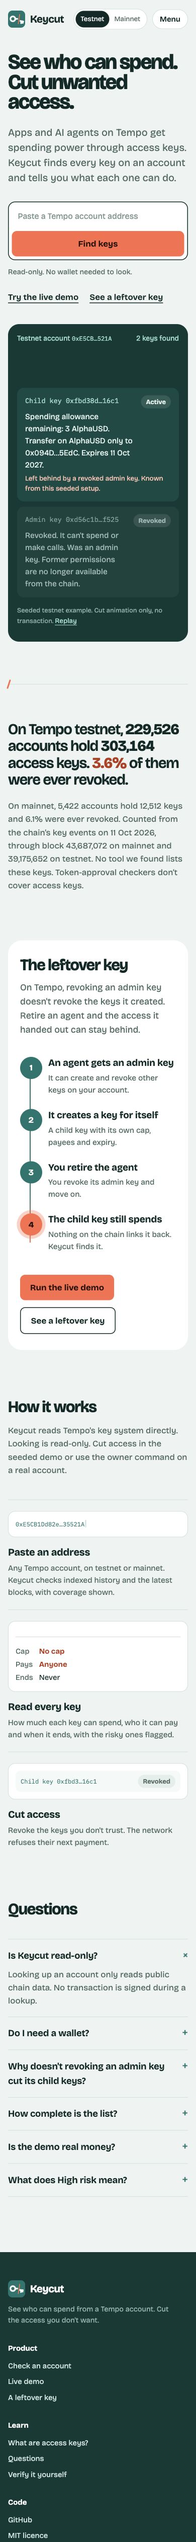
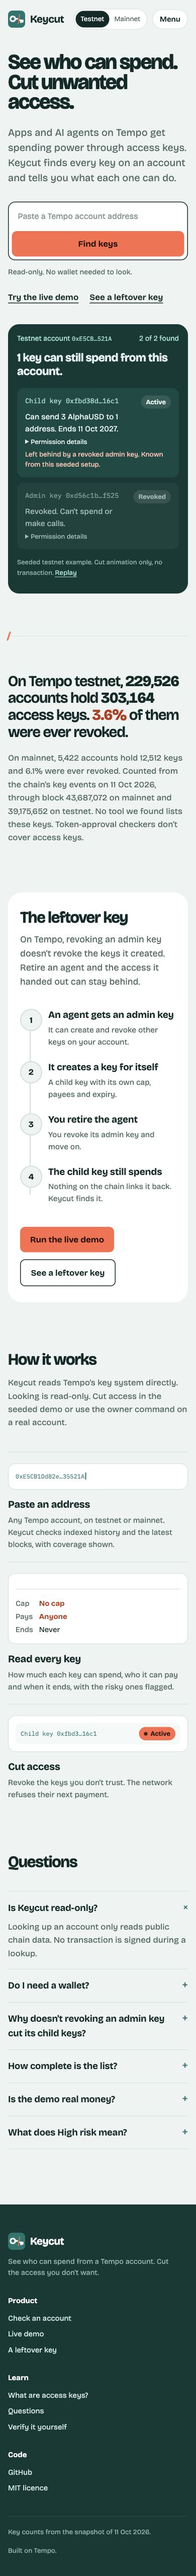
fix: keep content visible and simplify key summaries

diff --git a/components/demo-view.tsx b/components/demo-view.tsx
@@ -1,4 +1,5 @@
 'use client'
+import { keySummary } from '../lib/key-summary'
 import Link from 'next/link'
 import { formatUnits } from 'viem'
 import { useEffect, useRef, useState } from 'react'
@@ -59,5 +60,5 @@ export function DemoView(){
   const limit=childRaw?.limits.find(token=>token.symbol==='AlphaUSD')
   const latestPayment=results[6]??results[4]
   const received=latestPayment?.after
-  return <main className="wrap demo-page"><section className="demo-intro"><p className="fine">Test network 42431 · Seeded demo account · Not real funds</p><h1>Watch a key outlive its admin</h1><p>This runs on Tempo testnet with test money. Confirmed transactions have explorer links. Payment outcomes come from the vendor’s balance.</p><p className="fine">The server creates throwaway keys and funds the account from a bank. Setup completes the first four steps together, then their animations replay in order. Two comparison keys are also created.</p><Link href={`/testnet/${example.account}`}>See a leftover key without setup</Link></section><section className="demo"><div><ol className="plan"><span className="prog" aria-hidden="true" style={{transform:`scaleY(${Math.min(at,6)/6})`}} />{steps.map(([title,description],index)=><li key={title} className={`${index<at?'ok':''} ${at===index?'now':''} ${at===index&&busy?'run':''} ${index===4?'alarm':''}`}><span className="n">{index+1}</span><h3>{title}</h3><p>{results[index]?.explanation??description}</p><div className="tx">{transactions.filter(tx=>txStep(tx)===index).map(tx=><div key={tx.hash}><a href={tx.url} target="_blank" rel="noreferrer">{tx.label} · {short(tx.hash)}</a></div>)}{results[index]?.url&&<a href={results[index].url!} target="_blank" rel="noreferrer">Transaction {short(results[index].hash!)}</a>}{results[index]?.submission&&<p>{results[index].submission}</p>}{results[index]?.vendorReceived!==undefined&&<><p>Vendor balance: {formatUnits(BigInt(results[index].before!),6)} → {formatUnits(BigInt(results[index].after!),6)} AlphaUSD</p><details><summary>Base units</summary><p>6 decimals. Before: {results[index].before}. After: {results[index].after}. Change: {results[index].vendorReceived}.</p></details></>}</div></li>)}</ol><div className="ctl">{at<7&&<><button className="btn btn-cut" disabled={busy} onClick={()=>run()}>{busy?<><span className="spin" />Waiting for the test network</>:buttons[at]||'Completing setup'}</button><button className="btn btn-line" disabled={busy} onClick={()=>run(true)}>Run {at?'remaining':'every'} step</button></>}{at>0&&<button className="btn btn-quiet" disabled={busy} onClick={()=>{setReady(undefined);setTransactions([]);setResults({});setAt(0);setKeys(undefined);setCaption('Press the first step to start.')}}>Start over</button>}</div>{error&&<div className="state-panel" role="alert"><h3>Couldn’t confirm this step</h3><p>{error}</p><Link href={`/testnet/${example.account}`}>See a leftover key</Link></div>}</div><div className="demo-live"><div className="stage" aria-label="What's on the account"><div className="stage-head"><span>Testnet · seeded demo</span><span className="mono">{ready?short(ready.account):'No account yet'}</span></div><div className="board" ref={board}><div className={`node ${at<1?'ghost':'pop'}`} id="nAcct"><div className="t">Your test account</div><div className="d">Funded from the testnet bank</div></div><div className={`wire ${at<2?'ghost':''}`} id="w1" /><div className={`node ${at<2?'ghost':at>=4?'dead':'pop'}`} id="nAdmin" ref={admin}><div className="t">Admin key <span className="state">{at>=4?'Revoked':'Active'}</span></div><div className="d">Held by the agent. Can create keys.</div></div><div className={`wire ${at<3?'ghost':at>=4?'broken':''}`} id="w2"><span className="lab">The child keeps its own access</span></div><div className={`node ${at<3?'ghost':at>=6?'dead':at>=4?'hot':'pop'}`} id="nChild" ref={child}><div className="t">Child key <span className="state">{at>=6?'Revoked':'Active'}</span></div><div className="d">Pays the vendor only</div>{limit&&at<6&&<div className="meter"><div className="bar"><i style={{width:`${Math.min(100,Number(limit.remaining)/3_000_000*100)}%`}} /></div><div className="tt">{formatUnits(BigInt(limit.remaining),6)} AlphaUSD remaining</div></div>}</div><div className="node col2" id="nShop" ref={shop}><div className="t">Vendor</div><div className="d mono">{ready?short(ready.vendor):'Not created yet'}</div><div className="d">{received===undefined?'Balance not yet checked':`Balance ${formatUnits(BigInt(received),6)} AlphaUSD`}</div></div></div><p className={`caption ${at>=4&&at<6?'alarm':at>=6?'good':''}`} key={caption} aria-live="polite">{caption}</p><p className="stage-foot">Test AlphaUSD has no value. Lineage is known from this demo’s setup, not read from the chain. Other comparison keys remain in the actual account below.</p></div>{ready?<><Link className="demo-account-link" href={`/testnet/${ready.account}`} target="_blank">Open this account page</Link><AccountView key={ready.account} chain="testnet" address={ready.account} page={1} embedded refreshVersion={version} demo={{child:ready.child,childCanRevoke:at>=5,busy,onRevoke:revokeFromCard}} /></>:<div className="state-panel"><h3>Your actual account page appears here</h3><p>It reads the same index, top-up and permissions as every lookup.</p></div>}</div></section><dialog ref={dialog} className="confirm" aria-labelledby="demo-cut-title" onCancel={()=>{setConfirm(false);setAuto(false)}}><h3 id="demo-cut-title">Cut this key's access?</h3><p>This revokes the key on Tempo. It can't be undone.</p><p className="mono">{ready?.child}</p><p>{childEntry?.sentence??'Current permissions are not yet available. The setup created a child with a 3 AlphaUSD cap, one vendor and a two-hour expiry.'}</p><div className="acts"><button className="btn btn-line" onClick={()=>{setConfirm(false);setAuto(false)}}>Cancel</button><button className="btn btn-cut" onClick={confirmCut}>Cut access</button></div></dialog></main>
+  return <main className="wrap demo-page"><section className="demo-intro"><h1>Watch a key outlive its admin</h1><p>This runs on Tempo testnet with test money. Every step is a real transaction you can open on the explorer.</p></section><section className="demo"><div><ol className="plan"><span className="prog" aria-hidden="true" style={{transform:`scaleY(${Math.min(at,6)/6})`}} />{steps.map(([title,description],index)=><li key={title} className={`${index<at?'ok':''} ${at===index?'now':''} ${at===index&&busy?'run':''} ${index===4?'alarm':''}`}><span className="n">{index+1}</span><h3>{title}</h3><p>{results[index]?.explanation??description}</p><div className="tx">{transactions.filter(tx=>txStep(tx)===index).map(tx=><div key={tx.hash}><a href={tx.url} target="_blank" rel="noreferrer">{tx.label} · {short(tx.hash)}</a></div>)}{results[index]?.url&&<a href={results[index].url!} target="_blank" rel="noreferrer">Transaction {short(results[index].hash!)}</a>}{results[index]?.submission&&<p>{results[index].submission}</p>}{results[index]?.vendorReceived!==undefined&&<><p>Vendor balance: {formatUnits(BigInt(results[index].before!),6)} → {formatUnits(BigInt(results[index].after!),6)} AlphaUSD</p><details><summary>Base units</summary><p>6 decimals. Before: {results[index].before}. After: {results[index].after}. Change: {results[index].vendorReceived}.</p></details></>}</div></li>)}</ol><p className="fine demo-setup-note">The first four steps run together on a seeded testnet account, with two comparison keys. Payments use the vendor’s balance to confirm what happened. Test money has no value. <Link href={`/testnet/${example.account}`}>See a leftover key without setup</Link>.</p><div className="ctl">{at<7&&<><button className="btn btn-cut" disabled={busy} onClick={()=>run()}>{busy?<><span className="spin" />Waiting for the test network</>:buttons[at]||'Completing setup'}</button><button className="btn btn-line" disabled={busy} onClick={()=>run(true)}>Run {at?'remaining':'every'} step</button></>}{at>0&&<button className="btn btn-quiet" disabled={busy} onClick={()=>{setReady(undefined);setTransactions([]);setResults({});setAt(0);setKeys(undefined);setCaption('Press the first step to start.')}}>Start over</button>}</div>{error&&<div className="state-panel" role="alert"><h3>Couldn’t confirm this step</h3><p>{error}</p><Link href={`/testnet/${example.account}`}>See a leftover key</Link></div>}</div><div className="demo-live"><div className="stage" aria-label="What's on the account"><div className="stage-head"><span>Testnet · seeded demo</span><span className="mono">{ready?short(ready.account):'No account yet'}</span></div><div className="board" ref={board}><div className={`node ${at<1?'ghost':'pop'}`} id="nAcct"><div className="t">Your test account</div><div className="d">Funded from the testnet bank</div></div><div className={`wire ${at<2?'ghost':''}`} id="w1" /><div className={`node ${at<2?'ghost':at>=4?'dead':'pop'}`} id="nAdmin" ref={admin}><div className="t">Admin key <span className="state">{at>=4?'Revoked':'Active'}</span></div><div className="d">Held by the agent. Can create keys.</div></div><div className={`wire ${at<3?'ghost':at>=4?'broken':''}`} id="w2"><span className="lab">The child keeps its own access</span></div><div className={`node ${at<3?'ghost':at>=6?'dead':at>=4?'hot':'pop'}`} id="nChild" ref={child}><div className="t">Child key <span className="state">{at>=6?'Revoked':'Active'}</span></div><div className="d">{childRaw ? keySummary(childRaw, keys!.permissionsAtTimestamp) : "Can pay one vendor. Permissions appear after setup."}</div>{childRaw&&<details><summary>Permission details</summary><pre>{JSON.stringify(childRaw,null,2)}</pre></details>}{limit&&at<6&&<div className="meter"><div className="bar"><i style={{width:`${Math.min(100,Number(limit.remaining)/3_000_000*100)}%`}} /></div><div className="tt">{formatUnits(BigInt(limit.remaining),6)} AlphaUSD remaining</div></div>}</div><div className="node col2" id="nShop" ref={shop}><div className="t">Vendor</div><div className="d mono">{ready?short(ready.vendor):'Not created yet'}</div><div className="d">{received===undefined?'Balance not yet checked':`Balance ${formatUnits(BigInt(received),6)} AlphaUSD`}</div></div></div><p className={`caption ${at>=4&&at<6?'alarm':at>=6?'good':''}`} key={caption} aria-live="polite">{caption}</p><p className="stage-foot">Test AlphaUSD has no value. Lineage is known from this demo’s setup, not read from the chain. Other comparison keys remain in the actual account below.</p></div>{ready?<><Link className="demo-account-link" href={`/testnet/${ready.account}`} target="_blank">Open this account page</Link><AccountView key={ready.account} chain="testnet" address={ready.account} page={1} embedded refreshVersion={version} demo={{child:ready.child,childCanRevoke:at>=5,busy,onRevoke:revokeFromCard}} /></>:<div className="state-panel"><h3>Your actual account page appears here</h3><p>It reads the same index, top-up and permissions as every lookup.</p></div>}</div></section><dialog ref={dialog} className="confirm" aria-labelledby="demo-cut-title" onCancel={()=>{setConfirm(false);setAuto(false)}}><h3 id="demo-cut-title">Cut this key's access?</h3><p>This revokes the key on Tempo. It can't be undone.</p><p className="mono">{ready?.child}</p><p>{childRaw ? keySummary(childRaw, keys!.permissionsAtTimestamp) : 'Current permissions are not yet available. The setup created a child with a 3 AlphaUSD cap, one vendor and a two-hour expiry.'}</p><div className="acts"><button className="btn btn-line" onClick={()=>{setConfirm(false);setAuto(false)}}>Cancel</button><button className="btn btn-cut" onClick={confirmCut}>Cut access</button></div></dialog></main>
 }

diff --git a/components/design-page.tsx b/components/design-page.tsx
@@ -2,7 +2,8 @@
 import { useEffect, useRef } from 'react'
 import { useRouter } from 'next/navigation'
 import { isAddress } from 'viem'
-import { cut, swapText, countUp, onVisible, type, wait, reducedMotion, toast } from '../lib/motion'
+import { cut, swapText, countUp, onVisible, type, wait, reducedMotion, toast, reveal } from '../lib/motion'
+import { keySummary } from '../lib/key-summary'
 import { fetchKeys } from '../lib/keys-api'
 import example from '../lib/leftover-example.json'
 import { useNetwork } from './site-layout'
@@ -22,18 +23,19 @@ export function DesignPage({ html, page }: { html: string; page: 'home' | 'learn
       }
       form.addEventListener('submit', handler); cleanups.push(() => form.removeEventListener('submit', handler))
     }
+    cleanups.push(onVisible(q('.hero'), el => reveal(el, 'h1 span,.lede,.search,.fine,.alts')))
     container.querySelectorAll<HTMLElement>('[data-to]').forEach(el => cleanups.push(onVisible(el, node => cleanups.push(countUp(node)))))
     cleanups.push(onVisible(q('#steps'), el => el.classList.add('on'), .5))
     cleanups.push(onVisible(q('#frag1'), () => { const typed = q('#typed'); if (typed) void type(typed, `${example.account.slice(0,12)}…${example.account.slice(-6)}`,55) }))
-    cleanups.push(onVisible(q('#frag2'), el => el.classList.add('on')))
+    cleanups.push(onVisible(q('#frag2'), el => reveal(el, '.kv span')))
     cleanups.push(onVisible(q('#frag3'), async () => { const mini=q('#mini'); if (mini) { await wait(900); if (controller.signal.aborted) return; await cut(mini); const badge=q('#minibadge'); if (badge) { badge.className='badge';badge.textContent='Revoked' } } }))
-    cleanups.push(onVisible(q('#anat'), el => el.classList.add('on')))
+    cleanups.push(onVisible(q('#anat'), el => reveal(el, '.r')))
     if (page === 'learn') {
       const links = Array.from(container.querySelectorAll<HTMLAnchorElement>('#toc a')), mark=q('#tocmark')
       const setOn=(link: HTMLAnchorElement) => { links.forEach(l=>l.classList.toggle('on',l===link)); if(mark){mark.style.height=`${link.parentElement!.offsetHeight}px`;mark.style.transform=`translateY(${link.parentElement!.offsetTop}px)`} }
       if(links.length) setOn(links[0]!)
-      const observer=new IntersectionObserver(entries=>entries.forEach(entry=>{if(entry.isIntersecting){const link=links.find(l=>l.hash===`#${entry.target.id}`);if(link)setOn(link)}}),{rootMargin:'-30% 0px -60% 0px'})
-      container.querySelectorAll('article section').forEach(s=>observer.observe(s));cleanups.push(()=>observer.disconnect())
+      const observer=typeof IntersectionObserver === 'undefined' ? undefined : new IntersectionObserver(entries=>entries.forEach(entry=>{if(entry.isIntersecting){const link=links.find(l=>l.hash===`#${entry.target.id}`);if(link)setOn(link)}}),{rootMargin:'-30% 0px -60% 0px'})
+      container.querySelectorAll('article section').forEach(s=>observer?.observe(s));cleanups.push(()=>observer?.disconnect())
       const handler=async(event: MouseEvent)=>{
         const button=(event.target as Element).closest<HTMLButtonElement>('.flip button')
         if(button){container.querySelectorAll('.flip button').forEach(b=>b.setAttribute('aria-pressed',String(b===button))); for(const el of container.querySelectorAll<HTMLElement>('#anat .ex')){el.classList.toggle('bad',button.dataset.k==='b');void swapText(el,el.dataset[button.dataset.k!]!)} }
@@ -46,22 +48,24 @@ export function DesignPage({ html, page }: { html: string; page: 'home' | 'learn
       let generation=0
       async function play() {
         const run=++generation, ledger=q('#ledger')!,rows=q('#rows')!,found=q('#found')!,verdict=q('#verdict')!
-        ledger.classList.add('scanning');rows.replaceChildren();verdict.textContent='Reading the seeded example';found.textContent='Reading keys…'
+        ledger.classList.add('scanning')
         try {
           const data=await fetchKeys('testnet',example.account,1,controller.signal)
           if(controller.signal.aborted||run!==generation)return
+          rows.replaceChildren()
           for(const entry of data.keys){
             const row=document.createElement('div');row.className=`row found ${entry.status==='active'?'':'dim'}`
             const id=document.createElement('span');id.className='id';id.textContent=`${entry.key.toLowerCase()===example.child.toLowerCase()?'Child key':entry.key.toLowerCase()===example.admin.toLowerCase()?'Admin key':'Key'} ${entry.key.slice(0,8)}…${entry.key.slice(-4)}`
             const state=document.createElement('span');state.className='state';state.textContent=entry.status.charAt(0).toUpperCase()+entry.status.slice(1)
-            const what=document.createElement('span');what.className='what';what.textContent=entry.sentence.replace(/^Active\. /,'').replace(' (known stablecoins only)','').replace(/0x[0-9a-fA-F]{40}/g,value=>`${value.slice(0,6)}…${value.slice(-4)}`).replace(/\d{4}-\d{2}-\d{2}T[\d:.]+Z/g,value=>new Date(value).toLocaleDateString('en-GB',{day:'numeric',month:'short',year:'numeric'}));what.title=entry.sentence
+            const what=document.createElement('span');what.className='what';what.textContent=entry.raw?keySummary(entry.raw,data.permissionsAtTimestamp):entry.sentence
             row.append(id,state,what)
+            if(entry.raw){const details=document.createElement('details');details.className='row-details';const summary=document.createElement('summary');summary.textContent='Permission details';const pre=document.createElement('pre');pre.textContent=JSON.stringify(entry.raw,null,2);details.append(summary,pre);row.append(details)}
             if(entry.key.toLowerCase()===example.child.toLowerCase()){row.classList.add('target');const note=document.createElement('span');note.className='note';note.textContent='Left behind by a revoked admin key. Known from this seeded setup.';row.append(note)}
-            rows.append(row);found.textContent=`${rows.children.length} of ${data.totalKeys} found`;await wait(420);if(controller.signal.aborted||run!==generation)return
+            rows.append(row);cleanups.push(onVisible(row, el=>reveal(el,'.id,.state,.what')));found.textContent=`${rows.children.length} of ${data.totalKeys} found`;await wait(420);if(controller.signal.aborted||run!==generation)return
           }
           ledger.classList.remove('scanning');found.textContent=`${data.totalKeys} keys found`;await swapText(verdict,`${data.keys.filter(k=>k.status==='active').length} key can still spend from this account.`)
           await wait(1500);if(controller.signal.aborted||run!==generation)return;const target=q('.row.target');if(target){await cut(target);await swapText(verdict,'Cut unwanted access.');const note=target.querySelector<HTMLElement>('.note');if(note)note.textContent='Cut animation only. This permanent example stays active.'}
-        } catch(error){if(!controller.signal.aborted){ledger.classList.remove('scanning');found.textContent='Lookup unavailable';verdict.textContent='Open the seeded example';rows.textContent=(error as Error).message}}
+        } catch(error){if(!controller.signal.aborted){ledger.classList.remove('scanning');found.textContent='Lookup unavailable';verdict.textContent='Open the seeded example';if(!rows.children.length)rows.textContent=(error as Error).message}}
       }
       const replay=q('#replay')!;replay.addEventListener('click',play);cleanups.push(()=>replay.removeEventListener('click',play));void play()
     }

diff --git a/app/globals.css b/app/globals.css
@@ -107,7 +107,6 @@ a { color: inherit; }
 .state.live { background: var(--coral); color: #2A0E06; }
 .row-tools { grid-column: 1 / -1; display: flex; align-items: center; gap: 12px; margin-top: 8px; }
 .row-tools small, .row-tools .done { color: var(--mint); font-size: 13.5px; }
-.row.found { animation: found .5s var(--ease-out) both; }
 @keyframes found { from { opacity: 0; transform: translateY(12px) scale(.98); } }
 .replay { font: inherit; font-size: 13.5px; color: var(--mint); background: none; border: 0; padding: 0; text-decoration: underline; text-underline-offset: 4px; cursor: pointer; }
 .ledger-foot { margin-top: 16px; font-size: 13px; color: #8FB3AC; }
@@ -131,7 +130,7 @@ footer { background: var(--deep); color: #CFE8E3; padding: 56px 0 40px; }
 .legal { margin-top: 44px; padding-top: 20px; border-top: 1px solid rgba(255,255,255,.1); font-size: 13.5px; color: #8FB3AC; display: flex; justify-content: space-between; gap: 16px; flex-wrap: wrap; }
 
 /* ---------- Toast ---------- */
-.toast { position: fixed; left: 50%; bottom: 24px; z-index: 60; transform: translate(-50%, 140%); background: var(--ink); color: #fff; padding: 12px 18px; border-radius: 12px; font-size: 15px; display: flex; gap: 10px; align-items: center; max-width: calc(100vw - 32px); transition: transform .4s var(--ease-out); }
+.toast { position: fixed; left: 50%; bottom: 24px; z-index: 60; transform: translate(-50%, 140%); background: var(--deep); color: #fff; padding: 12px 18px; border-radius: 12px; font-size: 15px; display: flex; gap: 10px; align-items: center; max-width: calc(100vw - 32px); transition: transform .4s var(--ease-out); }
 .toast.show { transform: translate(-50%, 0); }
 .toast::before { content: ""; width: 3px; height: 18px; background: var(--coral); border-radius: 2px; transform: rotate(16deg); flex: none; }
 
@@ -169,9 +168,6 @@ dialog.confirm .acts { display: flex; gap: 10px; justify-content: flex-end; marg
 
 /* Home page only */
 .hero { display: grid; grid-template-columns: 1.05fr .95fr; gap: 56px; align-items: center; padding-top: 56px; padding-bottom: 84px; }
-.hero h1 span { animation: rise .8s var(--ease-out) both; }
-.hero h1 span + span { animation-delay: .12s; }
-.hero .lede, .hero .search, .hero .fine, .hero .alts { animation: rise .8s .24s var(--ease-out) both; }
 @keyframes rise { from { opacity: 0; transform: translateY(18px); } }
 .lede { font-size: 20px; line-height: 1.5; color: var(--muted); max-width: 33ch; margin: 0 0 32px; }
 .alts { display: flex; gap: 22px; margin-top: 26px; font-weight: 600; flex-wrap: wrap; }
@@ -212,7 +208,7 @@ dialog.confirm .acts { display: flex; gap: 10px; justify-content: flex-end; marg
 .frag .caret { display: inline-block; width: 2px; height: 1em; background: var(--teal); vertical-align: -2px; margin-left: 1px; animation: beat 1s steps(1) infinite; }
 .frag .kv { display: grid; grid-template-columns: auto 1fr; gap: 3px 12px; }
 .frag .kv span:nth-child(odd) { color: var(--muted); }
-.frag .kv span { opacity: 0; transform: translateX(-6px); transition: opacity .35s, transform .35s var(--ease-out); }
+.frag .kv span { opacity: 1; transform: none; transition: opacity .35s, transform .35s var(--ease-out); }
 .frag.on .kv span { opacity: 1; transform: none; }
 .frag.on .kv span:nth-child(n+3) { transition-delay: .15s; } .frag.on .kv span:nth-child(n+5) { transition-delay: .3s; }
 .frag .kv .risk { color: var(--coral-ink); font-weight: 650; }
@@ -272,7 +268,6 @@ dialog.confirm .acts { display: flex; gap: 10px; justify-content: flex-end; marg
 
 .cards { display: grid; gap: 14px; }
 .card { background: var(--sheet); border: 1px solid var(--line); border-radius: 18px; padding: 20px 22px; position: relative; transition: border-color .3s, background .3s, opacity .3s; }
-.card.found { animation: found .5s var(--ease-out) both; }
 .card.hide { display: none; }
 .card.flag { border-color: #FFB4A3; box-shadow: inset 4px 0 0 var(--coral); }
 .card.off { background: #F7FAF9; }
@@ -416,7 +411,7 @@ dialog.confirm .acts { display: flex; gap: 10px; justify-content: flex-end; marg
 .anat .r span { color: var(--muted); font-size: 15.5px; }
 .anat .r .ex { font-family: var(--mono); font-size: 13px; color: var(--teal); background: #EAF4F1; padding: 3px 8px; border-radius: 6px; white-space: nowrap; }
 .anat .r .ex.bad { color: var(--coral-ink); background: #FFF0EC; }
-.anat .r { opacity: 0; transform: translateY(8px); transition: opacity .45s, transform .45s var(--ease-out); }
+.anat .r { opacity: 1; transform: none; transition: opacity .45s, transform .45s var(--ease-out); }
 .anat.on .r { opacity: 1; transform: none; }
 .anat.on .r:nth-child(2) { transition-delay: .1s; } .anat.on .r:nth-child(3) { transition-delay: .2s; } .anat.on .r:nth-child(4) { transition-delay: .3s; }
 .flip { display: flex; gap: 6px; margin: 14px 0 0; }
@@ -544,3 +539,7 @@ input,select { min-width: 0; border: 1px solid var(--line); background: var(--sh
 @media(prefers-reduced-motion:reduce) { .card details[open]>:not(summary) { animation: none !important; } }
 .acct:not(.embedded-account) { padding-left: 28px; padding-right: 28px; }
 @media(max-width:520px) { .acct:not(.embedded-account) { padding-left: 16px; padding-right: 16px; } }
+
+.row-details { grid-column: 1 / -1; font-size: 13px; }
+.row-details pre,.stage pre { color: var(--ink); }
+.key-sentence { font-size: 19px; line-height: 1.4; }

diff --git a/public/screenshots/index.html b/public/screenshots/index.html
@@ -1,2 +1,2 @@
-<!doctype html><html lang="en"><meta charset="utf-8"><meta name="viewport" content="width=device-width,initial-scale=1"><title>Keycut design screenshots</title><style>body{margin:0;background:#eef4f2;color:#0d2b27;font:17px system-ui;padding:24px}main{max-width:1200px;margin:auto}h1{font-size:36px}section{margin:40px 0}.pair{display:grid;grid-template-columns:minmax(0,3fr) minmax(0,1fr);gap:20px;align-items:start}img{display:block;width:100%;border-radius:12px;border:1px solid #cfe0dc}a{color:#0f766e}@media(max-width:600px){.pair{grid-template-columns:1fr}}:focus-visible{outline:3px solid #ff6b4a}</style><main><h1>Keycut design screenshots</h1><p>Production build, desktop 1280px and phone 390px. These captures use live read-only data in the local preview. The demo captures show its initial state, before setup. No wallet or mainnet write was made.</p>
-<section><h2>Home</h2><div class="pair"><a href="home-desktop.jpg"><img src="home-desktop.jpg" alt="Home, desktop" loading="lazy"></a><a href="home-mobile.jpg"><img src="home-mobile.jpg" alt="Home, phone" loading="lazy"></a></div></section><section><h2>Account</h2><div class="pair"><a href="account-desktop.jpg"><img src="account-desktop.jpg" alt="Account, desktop" loading="lazy"></a><a href="account-mobile.jpg"><img src="account-mobile.jpg" alt="Account, phone" loading="lazy"></a></div></section><section><h2>Demo</h2><div class="pair"><a href="demo-desktop.jpg"><img src="demo-desktop.jpg" alt="Demo, desktop" loading="lazy"></a><a href="demo-mobile.jpg"><img src="demo-mobile.jpg" alt="Demo, phone" loading="lazy"></a></div></section><section><h2>Learn</h2><div class="pair"><a href="learn-desktop.jpg"><img src="learn-desktop.jpg" alt="Learn, desktop" loading="lazy"></a><a href="learn-mobile.jpg"><img src="learn-mobile.jpg" alt="Learn, phone" loading="lazy"></a></div></section><section><h2>Page not found</h2><div class="pair"><a href="404-desktop.jpg"><img src="404-desktop.jpg" alt="Page not found, desktop" loading="lazy"></a><a href="404-mobile.jpg"><img src="404-mobile.jpg" alt="Page not found, phone" loading="lazy"></a></div></section></main></html>
+<!doctype html><html lang="en"><meta charset="utf-8"><meta name="viewport" content="width=device-width,initial-scale=1"><title>Keycut design screenshots</title><style>body{margin:0;background:#eef4f2;color:#0d2b27;font:17px system-ui;padding:24px}main{max-width:1200px;margin:auto}h1{font-size:36px}section{margin:40px 0}.pair{display:grid;grid-template-columns:minmax(0,3fr) minmax(0,1fr);gap:20px;align-items:start}img{display:block;width:100%;border-radius:12px;border:1px solid #cfe0dc}a{color:#0f766e}@media(max-width:600px){.pair{grid-template-columns:1fr}}:focus-visible{outline:3px solid #ff6b4a}</style><main><h1>Keycut design screenshots</h1><p>Production build, desktop 1280px and phone 390px. These captures show the deployed HTTPS site. The demo captures show its initial state, before setup. The separate completed-demo capture records a real bank-funded testnet run. No user wallet or mainnet write was made.</p>
+<section><h2>Home</h2><div class="pair"><a href="home-desktop.jpg"><img src="home-desktop.jpg" alt="Home, desktop"></a><a href="home-mobile.jpg"><img src="home-mobile.jpg" alt="Home, phone"></a></div></section><section><h2>Account</h2><div class="pair"><a href="account-desktop.jpg"><img src="account-desktop.jpg" alt="Account, desktop"></a><a href="account-mobile.jpg"><img src="account-mobile.jpg" alt="Account, phone"></a></div></section><section><h2>Demo</h2><div class="pair"><a href="demo-desktop.jpg"><img src="demo-desktop.jpg" alt="Demo, desktop"></a><a href="demo-mobile.jpg"><img src="demo-mobile.jpg" alt="Demo, phone"></a></div></section><section><h2>Learn</h2><div class="pair"><a href="learn-desktop.jpg"><img src="learn-desktop.jpg" alt="Learn, desktop"></a><a href="learn-mobile.jpg"><img src="learn-mobile.jpg" alt="Learn, phone"></a></div></section><section><h2>Page not found</h2><div class="pair"><a href="404-desktop.jpg"><img src="404-desktop.jpg" alt="Page not found, desktop"></a><a href="404-mobile.jpg"><img src="404-mobile.jpg" alt="Page not found, phone"></a></div></section><section><h2>Completed live demo</h2><a href="demo-live-complete.jpg"><img src="demo-live-complete.jpg" alt="Real live demo after the child revoke and refused payment"></a></section></main></html>

diff --git a/components/account-view.tsx b/components/account-view.tsx
@@ -1,4 +1,5 @@
 'use client'
+import { keySummary } from '../lib/key-summary'
 import Link from 'next/link'
 import { useEffect, useRef, useState } from 'react'
 import { fetchKeys, type KeysResult } from '../lib/keys-api'
@@ -74,6 +75,6 @@ export function AccountView({ chain, address, page, initialData, demo, refreshVe
         {data.totalPages > 0 && <nav className="pagination" aria-label="Key pages"><div className="page-links">{page > 1 && <><Link href={href(1)}>First</Link><Link href={href(page - 1)}>Previous</Link></>}{page < data.totalPages && <><Link href={href(page + 1)}>Next</Link><Link href={href(data.totalPages)}>Last</Link></>}</div><form action={`/${chain}/${address}`}><label htmlFor={embedded ? 'embedded-page' : 'page'}>Page</label><input id={embedded ? 'embedded-page' : 'page'} name="page" type="number" min="1" max={data.totalPages} defaultValue={page} key={page} required /><span>of {data.totalPages.toLocaleString()}</span><button className="icon-btn">Go</button></form></nav>}
       </>}
     </section><aside className="rail"><div className="panel"><h3>Keys on this page</h3><div className="stack" aria-hidden="true"><i className="a" style={{flexGrow: counts.active}} /><i className="r" style={{flexGrow:counts.revoked}} /><i className="e" style={{flexGrow:counts.expired}} /></div><ul className="legend"><li style={{'--c':'var(--coral)'} as React.CSSProperties}>Can spend<b>{spenders}</b></li><li style={{'--c':'var(--teal)'} as React.CSSProperties}>Active<b>{counts.active}</b></li><li style={{'--c':'var(--mint)'} as React.CSSProperties}>Revoked<b>{counts.revoked}</b></li><li style={{'--c':'#4F7E77'} as React.CSSProperties}>Expired<b>{counts.expired}</b></li></ul><p>Cutting access needs the account owner. Looking doesn't.</p></div><div className="panel light"><h3>Why is a key still here?</h3><p>Revoking an admin key doesn't revoke the keys it created. <Link href="/learn#leftover">Read how the testnet case works</Link>.</p></div></aside></div>
-    <dialog className="confirm" ref={dialog} aria-labelledby="cut-title" onCancel={() => setPendingKey(undefined)}><h3 id="cut-title">Cut this key's access?</h3><p>This revokes the key on Tempo. It can't be undone.</p><p className="mono">{pendingKey}</p><p>{selected?.sentence}</p><div className="acts"><button className="btn btn-line" onClick={() => setPendingKey(undefined)}>Cancel</button><button className="btn btn-cut" onClick={() => pendingKey && revoke(pendingKey)}>Cut access</button></div></dialog>
+    <dialog className="confirm" ref={dialog} aria-labelledby="cut-title" onCancel={() => setPendingKey(undefined)}><h3 id="cut-title">Cut this key's access?</h3><p>This revokes the key on Tempo. It can't be undone.</p><p className="mono">{pendingKey}</p><p>{selected?.raw ? keySummary(selected.raw, data?.permissionsAtTimestamp ?? Math.floor(Date.now()/1000)) : selected?.sentence}</p><div className="acts"><button className="btn btn-line" onClick={() => setPendingKey(undefined)}>Cancel</button><button className="btn btn-cut" onClick={() => pendingKey && revoke(pendingKey)}>Cut access</button></div></dialog>
   </Container>
 }

diff --git a/app/page.tsx b/app/page.tsx
@@ -1,5 +1,24 @@
 import template from '../lib/design/index.json'
 import { snapshots, snapshotMarkup } from '../lib/snapshots'
 import { DesignPage } from '../components/design-page'
+import { cachedLookup } from '../lib/lookup'
+import { keySummary } from '../lib/key-summary'
+import example from '../lib/leftover-example.json'
+import type { Address } from 'viem'
 export const dynamic = 'force-dynamic'
-export default async function Home() { return <DesignPage page="home" html={snapshotMarkup(template, await snapshots())} /> }
+const escape = (text: string) => text.replace(/[&<>"']/g, char => ({'&':'&amp;','<':'&lt;','>':'&gt;','"':'&quot;',"'":'&#39;'}[char]!))
+export default async function Home() {
+  let html = snapshotMarkup(template, await snapshots()).replace('id="typed"></span>', `id="typed">${example.account.slice(0,12)}…${example.account.slice(-6)}</span>`)
+  try {
+    const data = await cachedLookup('testnet', example.account as Address, 1)
+    const rows = data.keys.map(entry => {
+      const child = entry.key.toLowerCase() === example.child.toLowerCase()
+      const kind = child ? 'Child key' : entry.key.toLowerCase() === example.admin.toLowerCase() ? 'Admin key' : 'Key'
+      return `<div class="row ${child?'target':''} ${entry.status==='active'?'':'dim'}"><span class="id">${kind} ${entry.key.slice(0,8)}…${entry.key.slice(-4)}</span><span class="state">${entry.status.charAt(0).toUpperCase()+entry.status.slice(1)}</span><span class="what">${escape(entry.raw?keySummary(entry.raw,data.permissionsAtTimestamp):entry.sentence)}</span>${entry.raw?`<details class="row-details"><summary>Permission details</summary><pre>${escape(JSON.stringify(entry.raw,null,2))}</pre></details>`:''}${child?'<span class="note">Left behind by a revoked admin key. Known from this seeded setup.</span>':''}</div>`
+    }).join('')
+    html = html.replace('<div class="rows" id="rows"></div>', `<div class="rows" id="rows">${rows}</div>`).replace('id="found">Reading keys…', `id="found">${data.totalKeys} keys found`).replace('id="verdict">&nbsp;', `id="verdict">${data.keys.filter(key=>key.status==='active').length} key can still spend from this account.`)
+  } catch {
+    html = html.replace('id="verdict">&nbsp;', 'id="verdict">Open the seeded example').replace('<div class="rows" id="rows"></div>', `<div class="rows" id="rows"><a href="/testnet/${example.account}">Read this account’s current permissions</a></div>`)
+  }
+  return <DesignPage page="home" html={html} />
+}

diff --git a/components/key-card.tsx b/components/key-card.tsx
@@ -1,6 +1,7 @@
 'use client'
 
 import { formatUnits } from 'viem'
+import { keySummary } from '../lib/key-summary'
 import { riskLevel } from '../lib/key-presentation'
 import { KeyScope } from './key-scope'
 import { DateValue } from './date-value'
@@ -23,10 +24,10 @@ export function KeyCard({ entry, nowSeconds, chain, permanent, onRevoke, disable
   const positiveLimits = raw?.limits.filter(token => BigInt(token.remaining) > 0n) ?? []
   return <article id={`key-${entry.key}`} className={`card found ${risk === 'high' || leftover ? 'flag' : ''}`} aria-label={`Key ${entry.key}`}>
     <div className="head"><span className="kind">{leftover ? 'Child key' : raw?.isAdmin ? 'Admin key' : 'Access key'}</span><Address value={entry.key} /><div className="card-badges"><span className={`badge ${status}`}>{status.charAt(0).toUpperCase() + status.slice(1)}</span>{risk && <span className={`badge risk-${risk}`}>{risk === 'high' ? 'High risk' : 'Review'}</span>}</div></div>
-    {leftoverNote}<p className="sr-only">{entry.sentence}</p>
+    {leftoverNote}
     {!raw ? <p role="alert">We couldn't read this key's permissions. Try the lookup again.</p> : <>
       {raw.isAdmin && <p className="notice">Admin key: can create and revoke other keys.</p>}
-      <dl className="permission-grid">
+      <p className="key-sentence">{keySummary(raw, nowSeconds)}</p><details className="permission-details"><summary>Permission details</summary><dl className="permission-grid">
         <div><dt>Spending cap</dt><dd>{!raw.enforceLimits ? 'No cap' : <>
           <span className="subtext">Remaining allowance · known stablecoins only</span>
           {positiveLimits.length === 0 && <p>No remaining allowance among known stablecoins</p>}
@@ -35,7 +36,7 @@ export function KeyCard({ entry, nowSeconds, chain, permanent, onRevoke, disable
         </>}</dd></div>
         <div><dt>Who it can pay / call</dt><dd><KeyScope raw={raw} chain={chain} /></dd></div>
         <div><dt>Expiry</dt><dd>{never ? 'Never expires' : <DateValue value={raw.expiry} />}</dd></div>
-      </dl>
+      </dl></details>
     </>}
     {entry.riskFlags.length > 0 && <div className={`risks ${risk ? `risk-${risk}` : ''}`} aria-label="Risk flags">{entry.riskFlags.map(flag => <span key={flag}>{flag}</span>)}</div>}
     {raw && status === 'active' && <KeyAction keyId={entry.key} chain={chain} permanent={permanent} onRevoke={onRevoke} disabled={disabled} disabledReason={disabledReason} />}

diff --git a/lib/key-summary.ts b/lib/key-summary.ts
@@ -1,0 +1,27 @@
+import { formatUnits, toFunctionSelector } from 'viem'
+import { keyStatus, type KeyPermissions } from './permissions'
+
+export function keySummary(raw: KeyPermissions, nowSeconds: number) {
+  const status = keyStatus(raw, nowSeconds)
+  const date = new Date(Number(raw.expiry) * 1000).toLocaleDateString('en-GB', { day: 'numeric', month: 'short', year: 'numeric', timeZone: 'UTC' })
+  if (status === 'revoked') return "Revoked. Can't spend or make calls."
+  if (status === 'expired') return `Expired ${date}. Can't spend or make calls.`
+  const end = BigInt(raw.expiry) === 0n || BigInt(raw.expiry) > 4_000_000_000n ? 'Never expires.' : `Ends ${date}.`
+  if (raw.isScoped && raw.scopes.length === 0) return `Can't spend or make calls. ${end}`
+  const positive = raw.limits.filter(token => BigInt(token.remaining) > 0n)
+  const sends = positive.flatMap(token => {
+    const scopes = raw.scopes.filter(scope => scope.target.toLowerCase() === token.address.toLowerCase())
+    const rules = scopes.flatMap(scope => scope.selectorRules.filter(rule => ['0xa9059cbb', toFunctionSelector('transferWithMemo(address,uint256,bytes32)')].includes(rule.selector.toLowerCase())))
+    const any = !raw.isScoped || scopes.some(scope => scope.selectorRules.length === 0) || rules.some(rule => rule.recipients.length === 0)
+    const recipients = new Set(rules.flatMap(rule => rule.recipients.map(value => value.toLowerCase())))
+    if (!any && !recipients.size) return []
+    const who = any ? 'any address' : `${recipients.size} ${recipients.size === 1 ? 'address' : 'addresses'}`
+    return [`Can send ${formatUnits(BigInt(token.remaining), token.decimals)} ${token.symbol} to ${who}.`]
+  })
+  let access: string
+  if (!raw.enforceLimits) access = !raw.isScoped ? 'Can spend without a cap and call anything.' : 'Can call allowed contracts without a spending cap.'
+  else if (sends.length) access = sends.join(' ')
+  else access = positive.length ? 'Can use its allowance for permitted calls.' : 'No remaining allowance among known stablecoins.'
+  if (raw.isAdmin) access += ' Can create and revoke other keys.'
+  return `${access} ${end}`
+}

diff --git a/tests/key-summary.test.ts b/tests/key-summary.test.ts
@@ -1,0 +1,21 @@
+import test from 'node:test'
+import assert from 'node:assert/strict'
+import { keySummary } from '../lib/key-summary'
+import type { KeyPermissions } from '../lib/permissions'
+const raw: KeyPermissions = {signatureType:0,keyId:'key',expiry:'1823282528',enforceLimits:true,isRevoked:false,isAdmin:false,wasAdmin:false,isScoped:true,scopes:[{target:'token',selectorRules:[{selector:'0xa9059cbb',recipients:['vendor']}]}],limits:[{address:'token',symbol:'AlphaUSD',decimals:6,remaining:'3000000',periodEnd:'0'}]}
+test('summary uses token units, deduplicated recipients and readable expiry',()=>{
+  assert.equal(keySummary(raw,1700000000),'Can send 3 AlphaUSD to 1 address. Ends 11 Oct 2027.')
+  assert.match(keySummary({...raw,scopes:[{target:'token',selectorRules:[{selector:'0xa9059cbb',recipients:[]}]}]},1700000000),/to any address/)
+})
+test('summary cannot give spending power to inactive, deny-all or exhausted keys',()=>{
+  assert.equal(keySummary({...raw,isRevoked:true},1700000000),"Revoked. Can't spend or make calls.")
+  assert.match(keySummary(raw,1900000000),/^Expired 11 Oct 2027/)
+  assert.match(keySummary({...raw,scopes:[]},1700000000),/^Can't spend or make calls/)
+  assert.match(keySummary({...raw,limits:[]},1700000000),/^No remaining allowance among known stablecoins/)
+})
+
+test('recipients stay tied to their token and empty selector rules mean any function',()=>{
+  const other = {target:'other',selectorRules:[{selector:'0xa9059cbb',recipients:[]}]}
+  assert.equal(keySummary({...raw,scopes:[...raw.scopes,other]},1700000000),'Can send 3 AlphaUSD to 1 address. Ends 11 Oct 2027.')
+  assert.equal(keySummary({...raw,scopes:[{target:'token',selectorRules:[]}]},1700000000),'Can send 3 AlphaUSD to any address. Ends 11 Oct 2027.')
+})

diff --git a/lib/motion.ts b/lib/motion.ts
@@ -39,7 +39,7 @@ export function countUp(el: HTMLElement, duration = 1400) {
 }
 export function onVisible(el: HTMLElement | null, fn: (el: HTMLElement) => void, threshold = .35) {
   if (!el) return () => {}
-  if (reducedMotion()) { fn(el); return () => {} }
+  if (reducedMotion() || typeof IntersectionObserver === 'undefined') { fn(el); return () => {} }
   const observer = new IntersectionObserver(entries => { if (entries.some(entry => entry.isIntersecting)) { observer.disconnect(); fn(el) } }, { threshold })
   observer.observe(el); return () => observer.disconnect()
 }
@@ -70,4 +70,11 @@ export async function paymentMotion(board: HTMLElement, child: HTMLElement, shop
       await coin.animate([{ transform: `translate(${x-20}px,${y}px)` }, { transform: `translate(${x-44}px,${y+34}px) scale(.5)`, opacity: 0 }], { duration: 600, fill: 'forwards' }).finished
     }
   } finally { coin.remove(); wall.remove() }
+}
+
+export function reveal(el: HTMLElement, selector: string) {
+  if (reducedMotion() || typeof IntersectionObserver === 'undefined') return
+  el.querySelectorAll<HTMLElement>(selector).forEach((node, index) => {
+    node.animate([{ opacity: 0, transform: 'translateY(8px)' }, { opacity: 1, transform: 'none' }], { duration: 450, delay: index * 75, easing: 'ease-out' })
+  })
 }

diff --git a/app/[chain]/[address]/page.tsx b/app/[chain]/[address]/page.tsx
@@ -1,5 +1,4 @@
-import type { Address } from 'viem'
-import example from '../../../lib/leftover-example.json'
+import { isAddress, type Address } from 'viem'
 import { cachedLookup } from '../../../lib/lookup'
 import { AccountView } from '../../../components/account-view'
 export default async function AccountPage({ params, searchParams }: {
@@ -8,8 +7,8 @@ export default async function AccountPage({ params, searchParams }: {
   const { chain, address } = await params
   const query = await searchParams
   let initialData
-  if (chain === 'testnet' && example.account && address.toLowerCase() === example.account.toLowerCase()) {
-    try { initialData = await cachedLookup('testnet', address as Address, Number(query.page ?? 1)) } catch { /* Client retry keeps coverage visible. */ }
+  if ((chain === 'testnet' || chain === 'mainnet') && isAddress(address, { strict: false })) {
+    try { initialData = await cachedLookup(chain, address as Address, Number(query.page ?? 1)) } catch { /* Client retry keeps coverage visible. */ }
   }
   return <AccountView initialData={initialData} chain={chain} address={address} page={Number(query.page ?? 1)} />
 }

diff --git a/app/api/demo/create/route.ts b/app/api/demo/create/route.ts
@@ -1,3 +1,4 @@
+import { BaseError } from 'viem'
 import { bankClient, createScenario, type DemoEvent } from '../../../../lib/demo'
 import { sealSession } from '../../../../lib/demo-session'
 import { demoBody, demoError, DemoRequestError } from '../../../../lib/demo-http'
@@ -18,6 +19,7 @@ export async function POST(request: Request) {
           const { session } = await createScenario(emit)
           emit({ type: 'ready', account: session.account, admin: session.admin, child: session.childId, vendor: session.vendor, session: sealSession(session) })
         } catch (error) {
+          console.error('Demo setup failed:', error instanceof BaseError ? error.shortMessage : error instanceof Error ? error.message : 'Unknown setup error')
           const message = error instanceof Error && /bank|setup|Funding failed/.test(error.message) ? error.message : 'Demo setup could not be completed. You can still view the leftover example.'
           emit({ type: 'error', error: message })
         } finally { if (connected) controller.close() }
